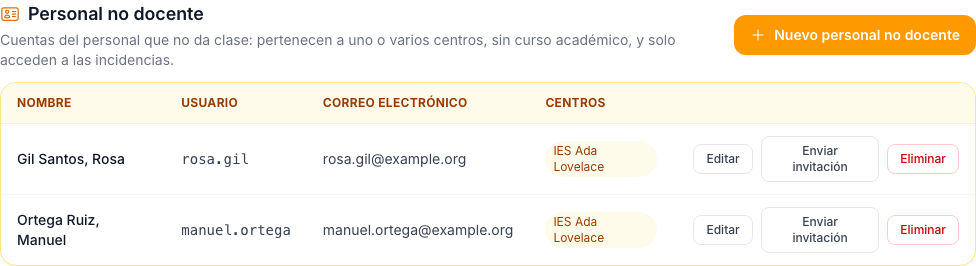
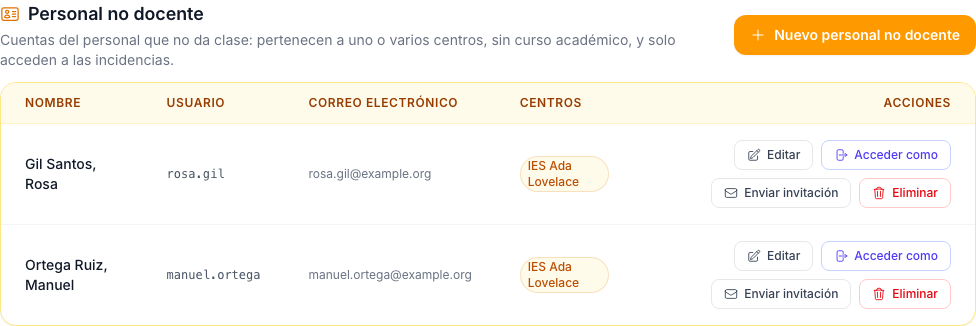
fix(admin): el listado de personal no docente usa los mismos iconos y botones que el de docentes, y permite acceder como esa persona
- Botones con icono (editar, acceder como, enviar invitación, eliminar/quitar) y confirmación al eliminar,
  tanto en Administración › Usuarios como en la gestión del centro (el acceso como otra persona, solo
  para administradores de la plataforma).
- Las acciones pasan a una segunda línea cuando no caben, en vez de desbordar la tabla.
- Captura del manual actualizada.

diff --git a/tests/Integration/Controller/Admin/NonTeachingAdminControllerTest.php b/tests/Integration/Controller/Admin/NonTeachingAdminControllerTest.php
@@ -156,6 +156,25 @@ class NonTeachingAdminControllerTest extends ControllerTestCase
         self::assertNull($this->em->getRepository(Teacher::class)->find($w['paco']->getId()));
     }
 
+    public function testTheAdminCanImpersonateANonTeachingAccountFromTheList(): void
+    {
+        $w = $this->world();
+        $this->loginAs($w['admin']);
+
+        $crawler = $this->client->request('GET', '/admin/docentes');
+        $link    = $crawler->filter('a[href*="_switch_user=' . $w['paco']->getUsername() . '"]');
+        self::assertCount(1, $link, 'hay un botón «Acceder como»');
+        self::assertCount(1, $crawler->filter('section:nth-of-type(2) form[action$="/eliminar"] button svg'), 'con icono, igual que el listado de docentes');
+
+        // Al acceder como esa cuenta solo se ve el módulo de incidencias.
+        $this->client->request('GET', '/?_switch_user=' . $w['paco']->getUsername());
+        $this->client->followRedirects();
+        $this->client->request('GET', '/partes');
+        self::assertResponseStatusCodeSame(403);
+        $this->client->request('GET', '/incidencias');
+        self::assertResponseIsSuccessful();
+    }
+
     // ── helpers ───────────────────────────────────────────────────────────────
 
     /** @return array<string, mixed> */
